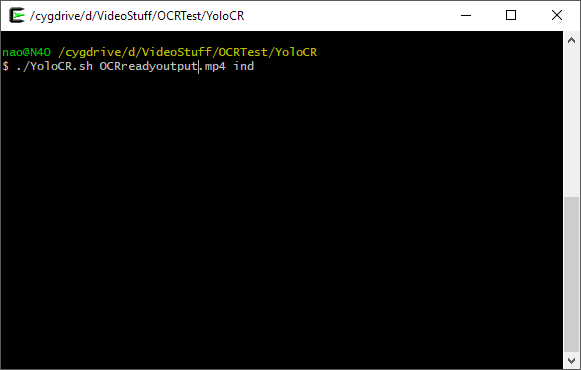
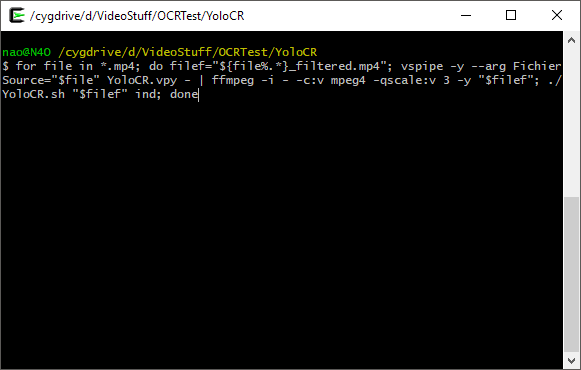
New how2ocr

Changed region(s): [[0.0, 0.1486, 0.9604, 0.2676]]

diff --git a/_posts/2019-02-08-hardsubocr.md b/_posts/2019-02-08-hardsubocr.md
@@ -18,7 +18,7 @@ Yang dibutuhin:
 - FFMpeg
 - YoloCR
 
-Silakan cek tutorial install vapoursynth di sini: [https://gist.github.com/noaione/6f8583c32a8f23e367688ebac0c9d0e0](https://gist.github.com/noaione/6f8583c32a8f23e367688ebac0c9d0e0)
+Silakan cek tutorial install vapoursynth di sini: [github](https://gist.github.com/noaione/6f8583c32a8f23e367688ebac0c9d0e0)
 
 ### Install YoloCR
 
@@ -73,37 +73,17 @@ Copy-Paste `FichierSource=r'Vidéo_Source.mkv'`, `DimensionCropBox=[1344,150]`, 
 
 Klik F5 lalu atur `SeuilI=230` dan `SeuilO=80` agar teks sub terlihat enak.
 
-Yang tak pake adalah `SeuilI=225` dan `SeuilO=70`, lalu save & exit.
+Yang tak pake adalah `SeuilI=225` dan `SeuilO=70`.
+
+Setelah itu kasih `#` di sebelum `FichierSource=r'Vidéo_Source.mkv` jadi kayak gini: `#FichierSource=r'Vidéo_Source.mkv`, save & exit `YoloCR.vpy`.
 
 ---
-
-Shift-Klik Kanan untuk memunculkan Pilihan `Open Powershell/Command Prompt window here`
-
-Buat file `encode.bat` lalu isi dengan ini
-
-```batch
-@echo off
-vspipe -y %1 - | ffmpeg -i - -c:v mpeg4 -qscale:v 3 -y OCRreadyoutput.mp4
-@pause
-```
-
-{% capture images %}
-	https://blog.n4o.xyz/blog/assets/img/ocrhard/03.png
-{% endcapture %}
-{% include gallery images=images caption="Yang harus diketik ke encode.bat" cols=1 %}
-
-Lalu, drag n' drop file `YoloCR.vpy` ke `encode.bat`, tunggu sesaat
-
-{% capture images %}
-	https://blog.n4o.xyz/blog/assets/img/ocrhard/04.png
-{% endcapture %}
-{% include gallery images=images caption="Proses buat video untuk di OCR" cols=1 %}
 
 Setelah itu, buka Cygwin dan ubah directory ke directory YoloCR. Cygwin menggunakan prefix `/cygdrive/` untuk harddisk kita, jika situ save di `C:` maka ketik `cd /cygdrive/c/` kalo `D:` ketik `cd /cygdrive/d/` dst.
 
 Karena folder saya ada di `D:\VideoStuff\OCRTest\YoloCR` maka kita akan tulis `cd /cygdrive/d/VideoStuff/OCRTest/YoloCR`
 
-Setelah itu tulis `./YoloCR.sh OCRreadyoutput.mp4 ind` dan tunggu sebentar
+Setelah itu ketik `for file in *.mp4; do filef="${file%.*}_filtered.mp4"; vspipe -y --arg FichierSource="$file" YoloCR.vpy - | ffmpeg -i - -c:v mpeg4 -qscale:v 3 -y "$filef"; ./YoloCR.sh "$filef" ind; done` dan tunggu sebentar
 
 {% capture images %}
 	https://blog.n4o.xyz/blog/assets/img/ocrhard/05.png
